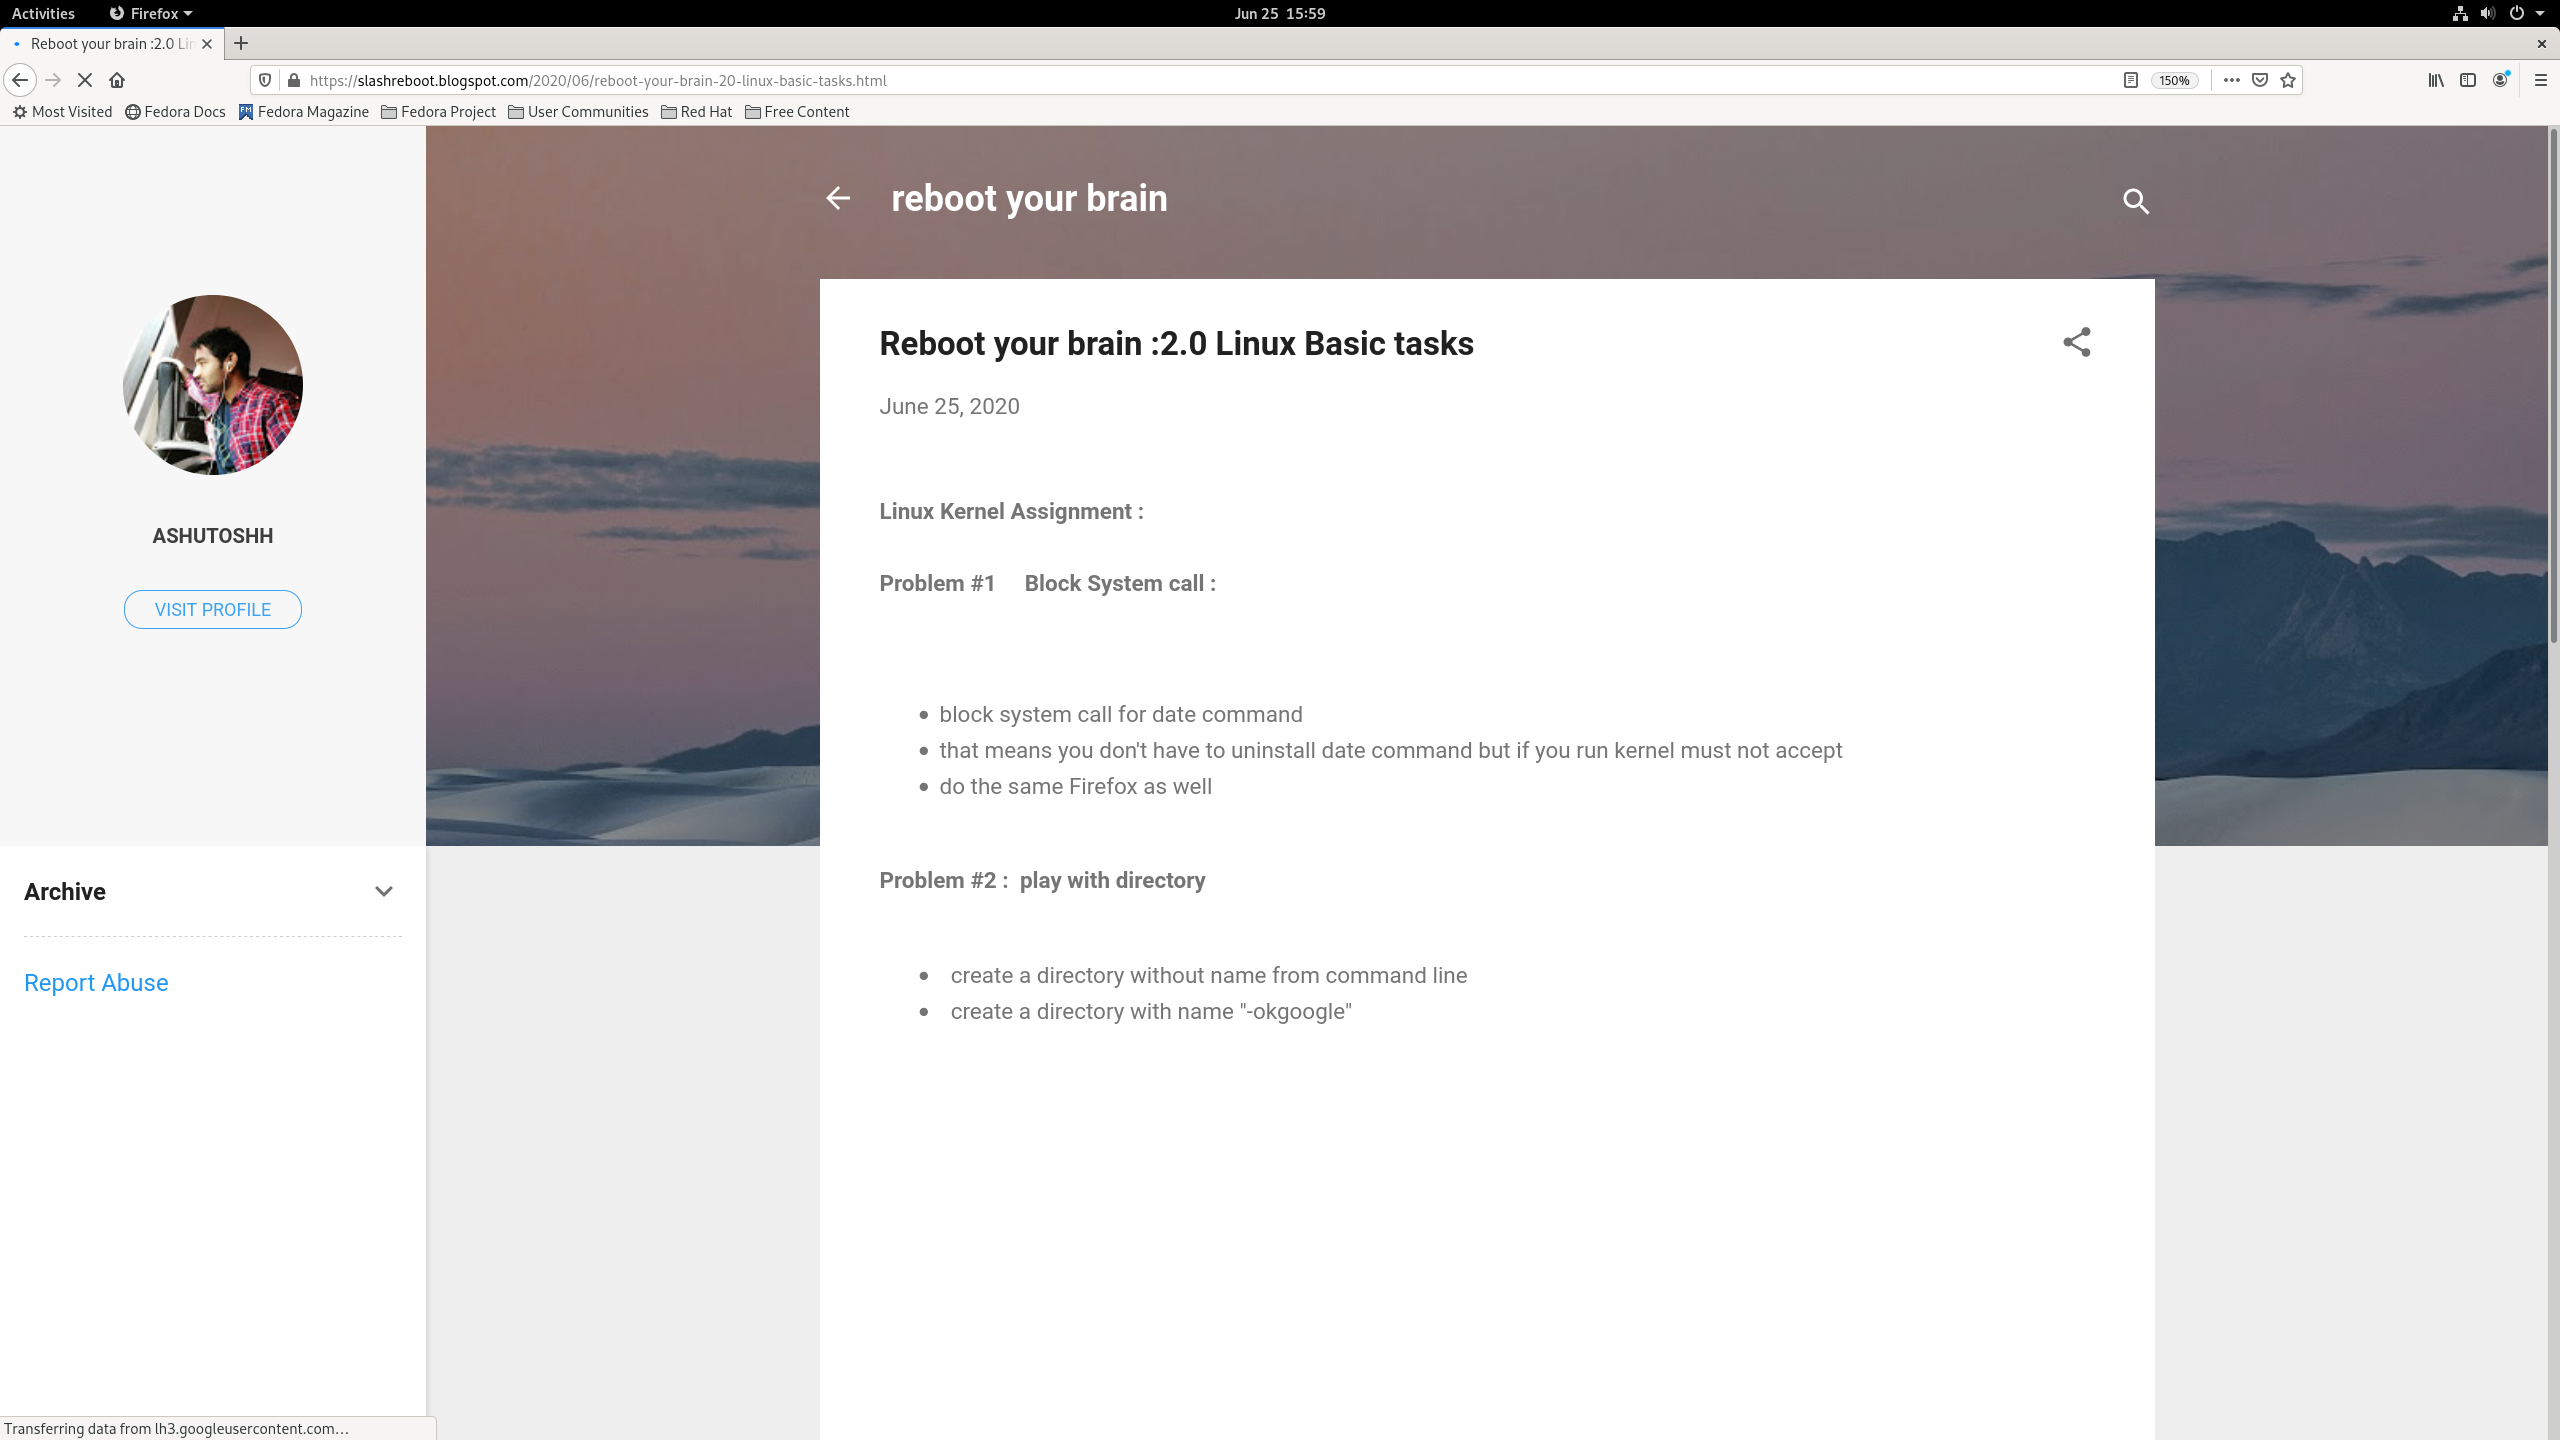
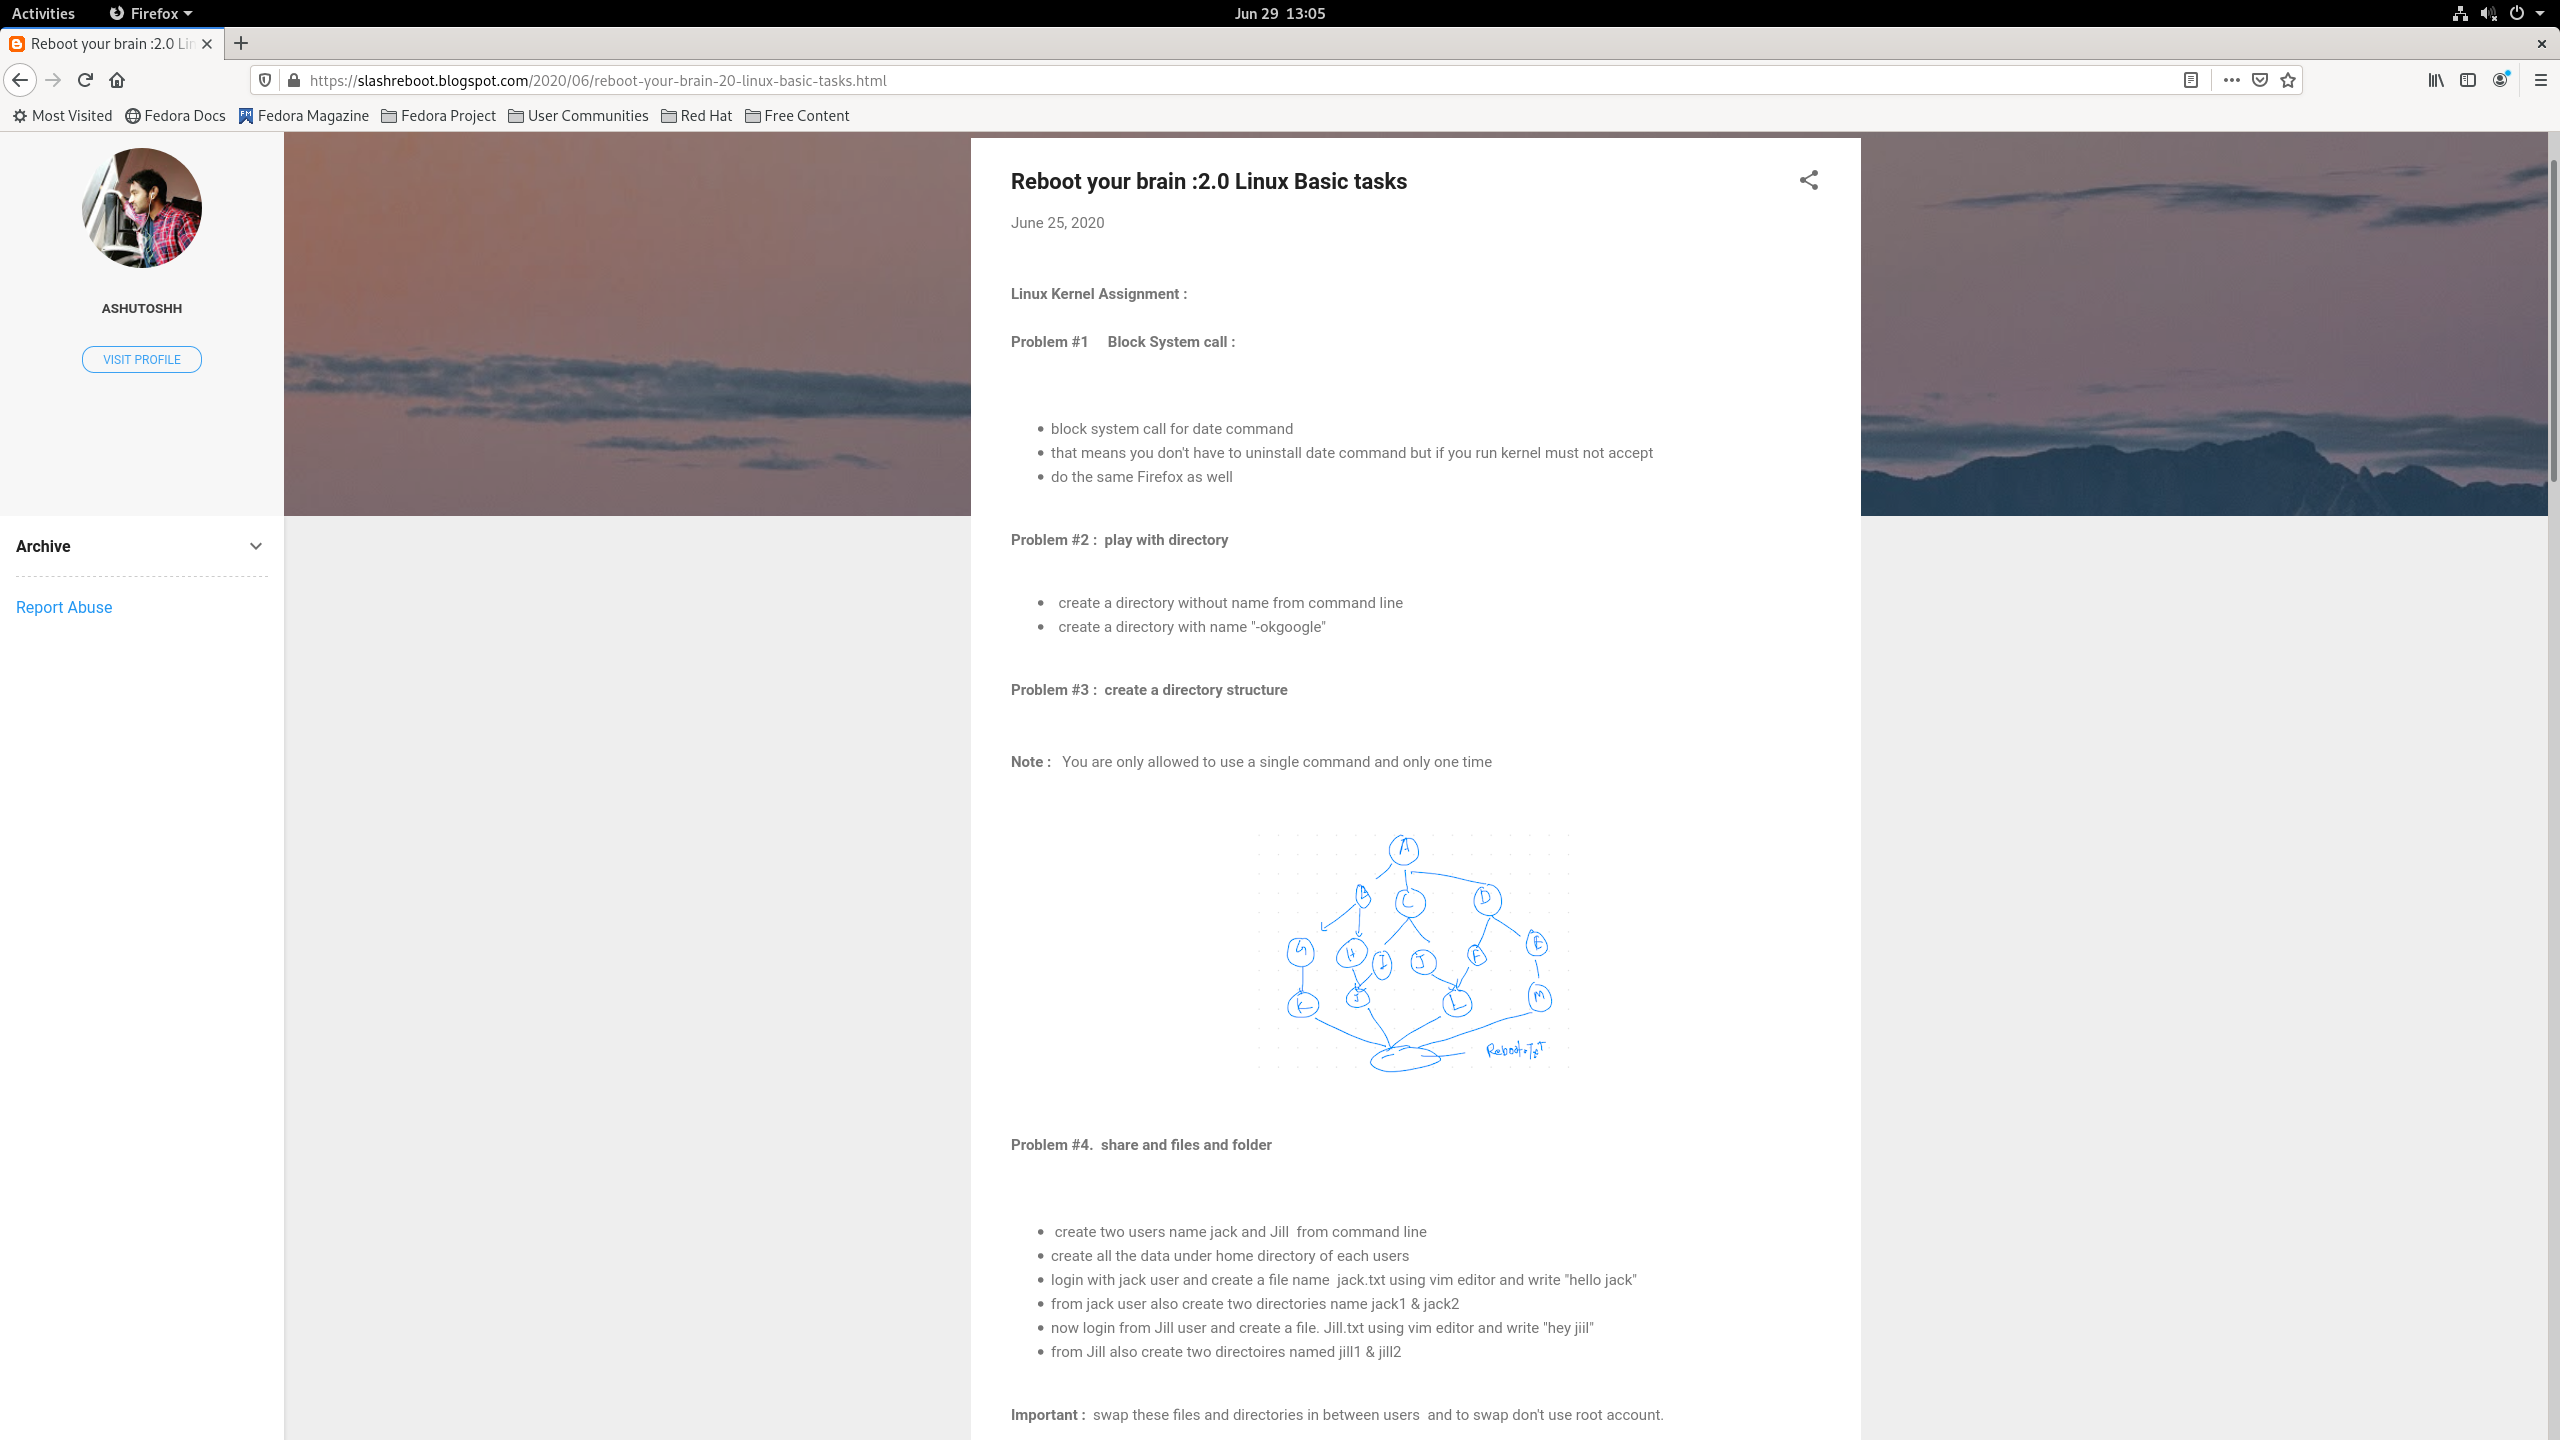
Assignment 1

diff --git a/asssignment-1.md b/asssignment-1.md
@@ -44,7 +44,7 @@ sudo chmod -x /usr/bin/firefox
 * Create a directory without name from command line
 * create a directory with name "-okgoogle"
 
-For this task we will be *using the **mkdir** command* to create te specified directories.
+For this task we will be *using the **mkdir** command* to create the specified directories.
 
 #### Directory without name
 ![Pic-1](https://github.com/kshitizsaini113/reboot-2.0/blob/master/1/QUESTION%202/1.png?raw=true)
@@ -55,7 +55,7 @@ mkdir DIRECTORY_NAME
 ```
 2. But, as we wish to create a directory without any name, and we can't leave the arguments blank, so we will use **"** to specify the name
 ```
-mkdir " "
+mkdir ''$'\n'
 ```
 > It will create a driectory without any name in the current folder. 
 3. The directory is visible both in CLI and GUI.
@@ -74,3 +74,88 @@ mkdir ./-okgoogle
 > It will create a driectory without any name in the current folder. 
 >> Even, using **"** in the case without using **./** will result in error, as now also mkdir will accept that as option for mkdir.
 3. The directory is visible both in CLI and GUI.
+
+## Question 3 : Create Directory Structure :
+
+**NOTE:** We are allowed to use a single command and only one time.
+
+* Create a directory structure as described above
+
+For this task we will be *using the **mkdir** command* to create the specified directories.
+
+#### Directory Structure
+![Pic-1](https://github.com/kshitizsaini113/reboot-2.0/blob/master/1/QUESTION%203/1.png?raw=true)
+
+1. Here we need to create a directory structure and that too in one line so we will use **-p** option with the command
+```
+mkdir -p A/{B/{G/K/Reboot.txt,H/J/Reboot.txt},C/{I/J/Reboot.txt,J/L/Reboot.txt},D/{F/L/Reboot.txt,E/M/Reboot.txt}}
+```
+2. We will see the directory using the tree command
+```
+tree A
+```
+> It will create a driectory without any name in the current folder.
+
+## Question 4 : Sharing the files and folder 
+
+* Create two users name jack and jill from command line.
+* Create all the data under home directory of each users.
+* Login with jack user and create a file name jack.txt using vim editor and write "hello jack".
+* From jack user also create two directories name jack1 & jack2. 
+* Now login from Jill user and create a file. Jill.txt using vim editor and write "hey jiil"
+* From Jill also create two directoires named jill1 & jill2.
+
+**IMPORTANT :** Swap these files and directories in between user and to swap don't use root account.
+
+#### File Sharing between users
+![Pic-1](https://github.com/kshitizsaini113/reboot-2.0/blob/master/1/QUESTION%204/1.png?raw=true)
+
+1. First we need to create the users jack and jill. Now we need to set the password for the users.
+```
+sudo adduser jack
+sudo adduser jill
+
+sudo passwd jack
+sudo passwd jill
+```
+2. We need to add the home directories of the users to each other's group.
+```
+sudo chgrp jill /home/jack
+sudo chgrp jack /home/jill
+```
+3. Switch to jack and create the files and folders. We can use ls to view the content.
+```
+su - jack -> Enter password for jack
+vim jack.txt
+mkdir jack1
+mkdir jack2
+ls
+logout
+```
+4. Switch to jill and create the files and folders. We can use ls to view the content.
+```
+su - jill -> Enter password for jill
+vim jill.txt
+mkdir jill1
+mkdir jill2
+ls
+logout
+```
+5. Now we can access each other user's file from the other user.
+```
+su - jack
+mv jack1 /home/jill
+mv jack2 /home/jill
+mv jack.txt /home/jill
+cd /home/jill
+mv jill.txt $HOME
+mv jill1 $HOME
+mv jill2 $HOME
+ls
+cd
+ls
+logout
+```
+![Pic-2](https://github.com/kshitizsaini113/reboot-2.0/blob/master/1/QUESTION%204/2.png?raw=true)
+
+6. The files have been shared between the users without using root permissions.
